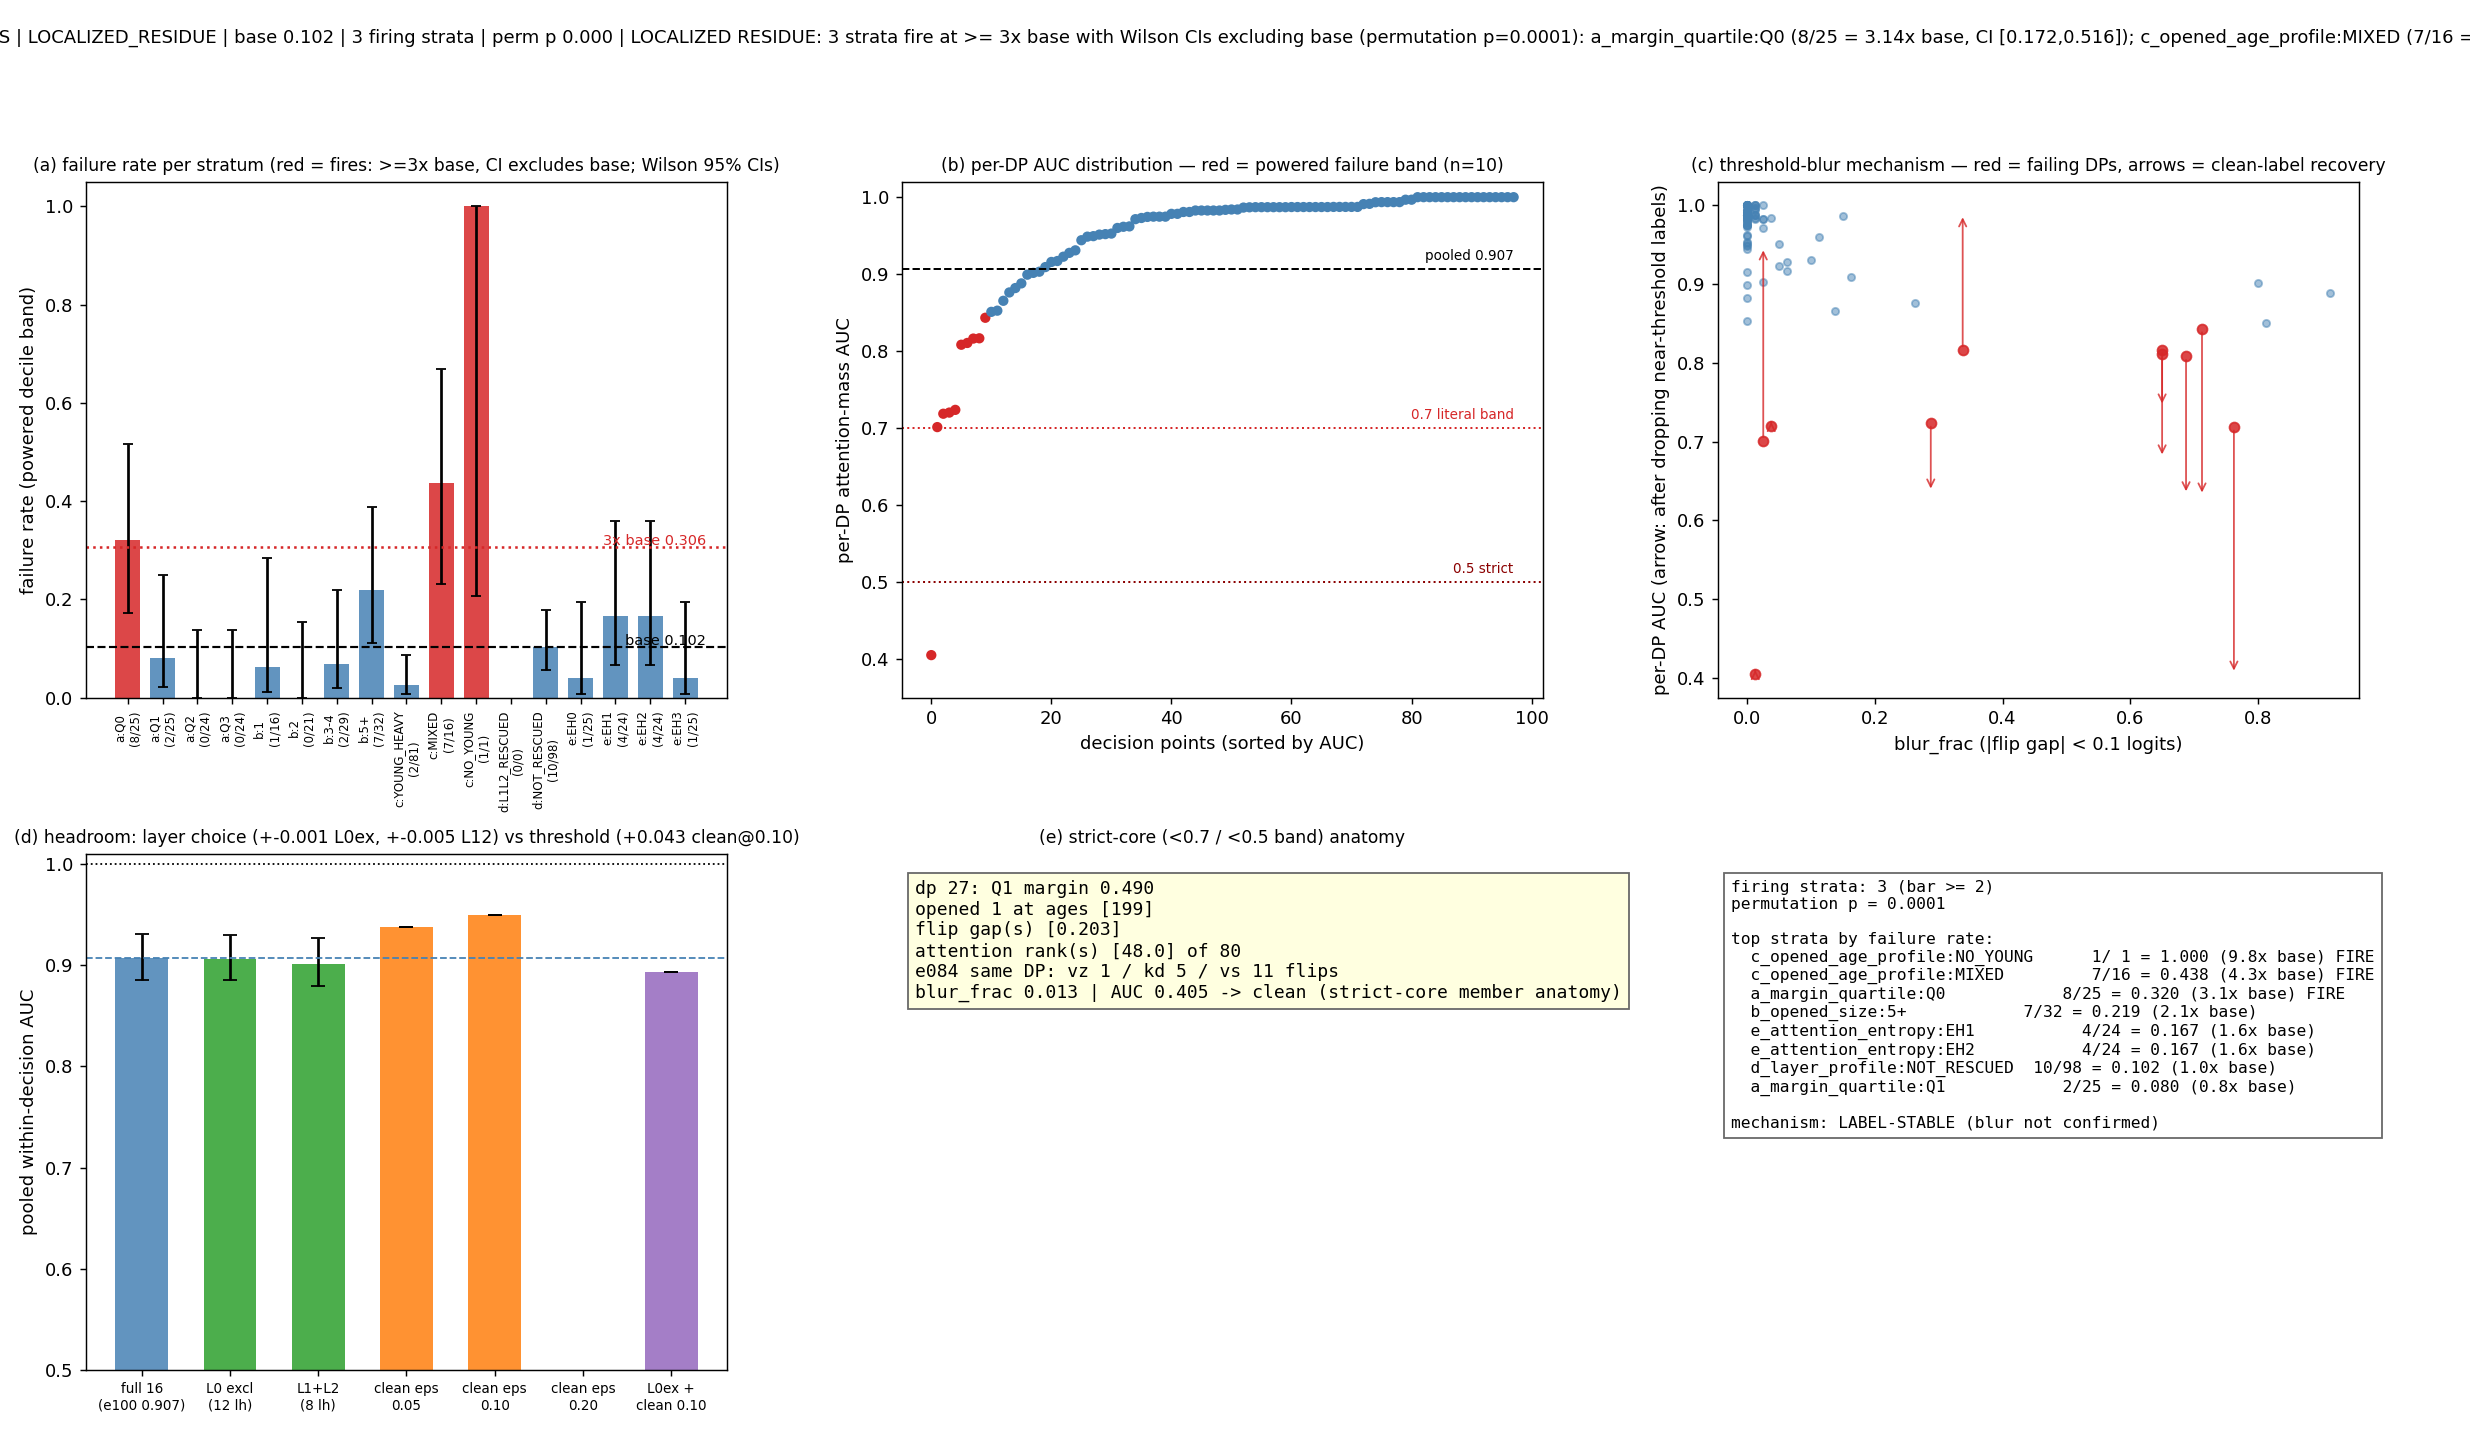
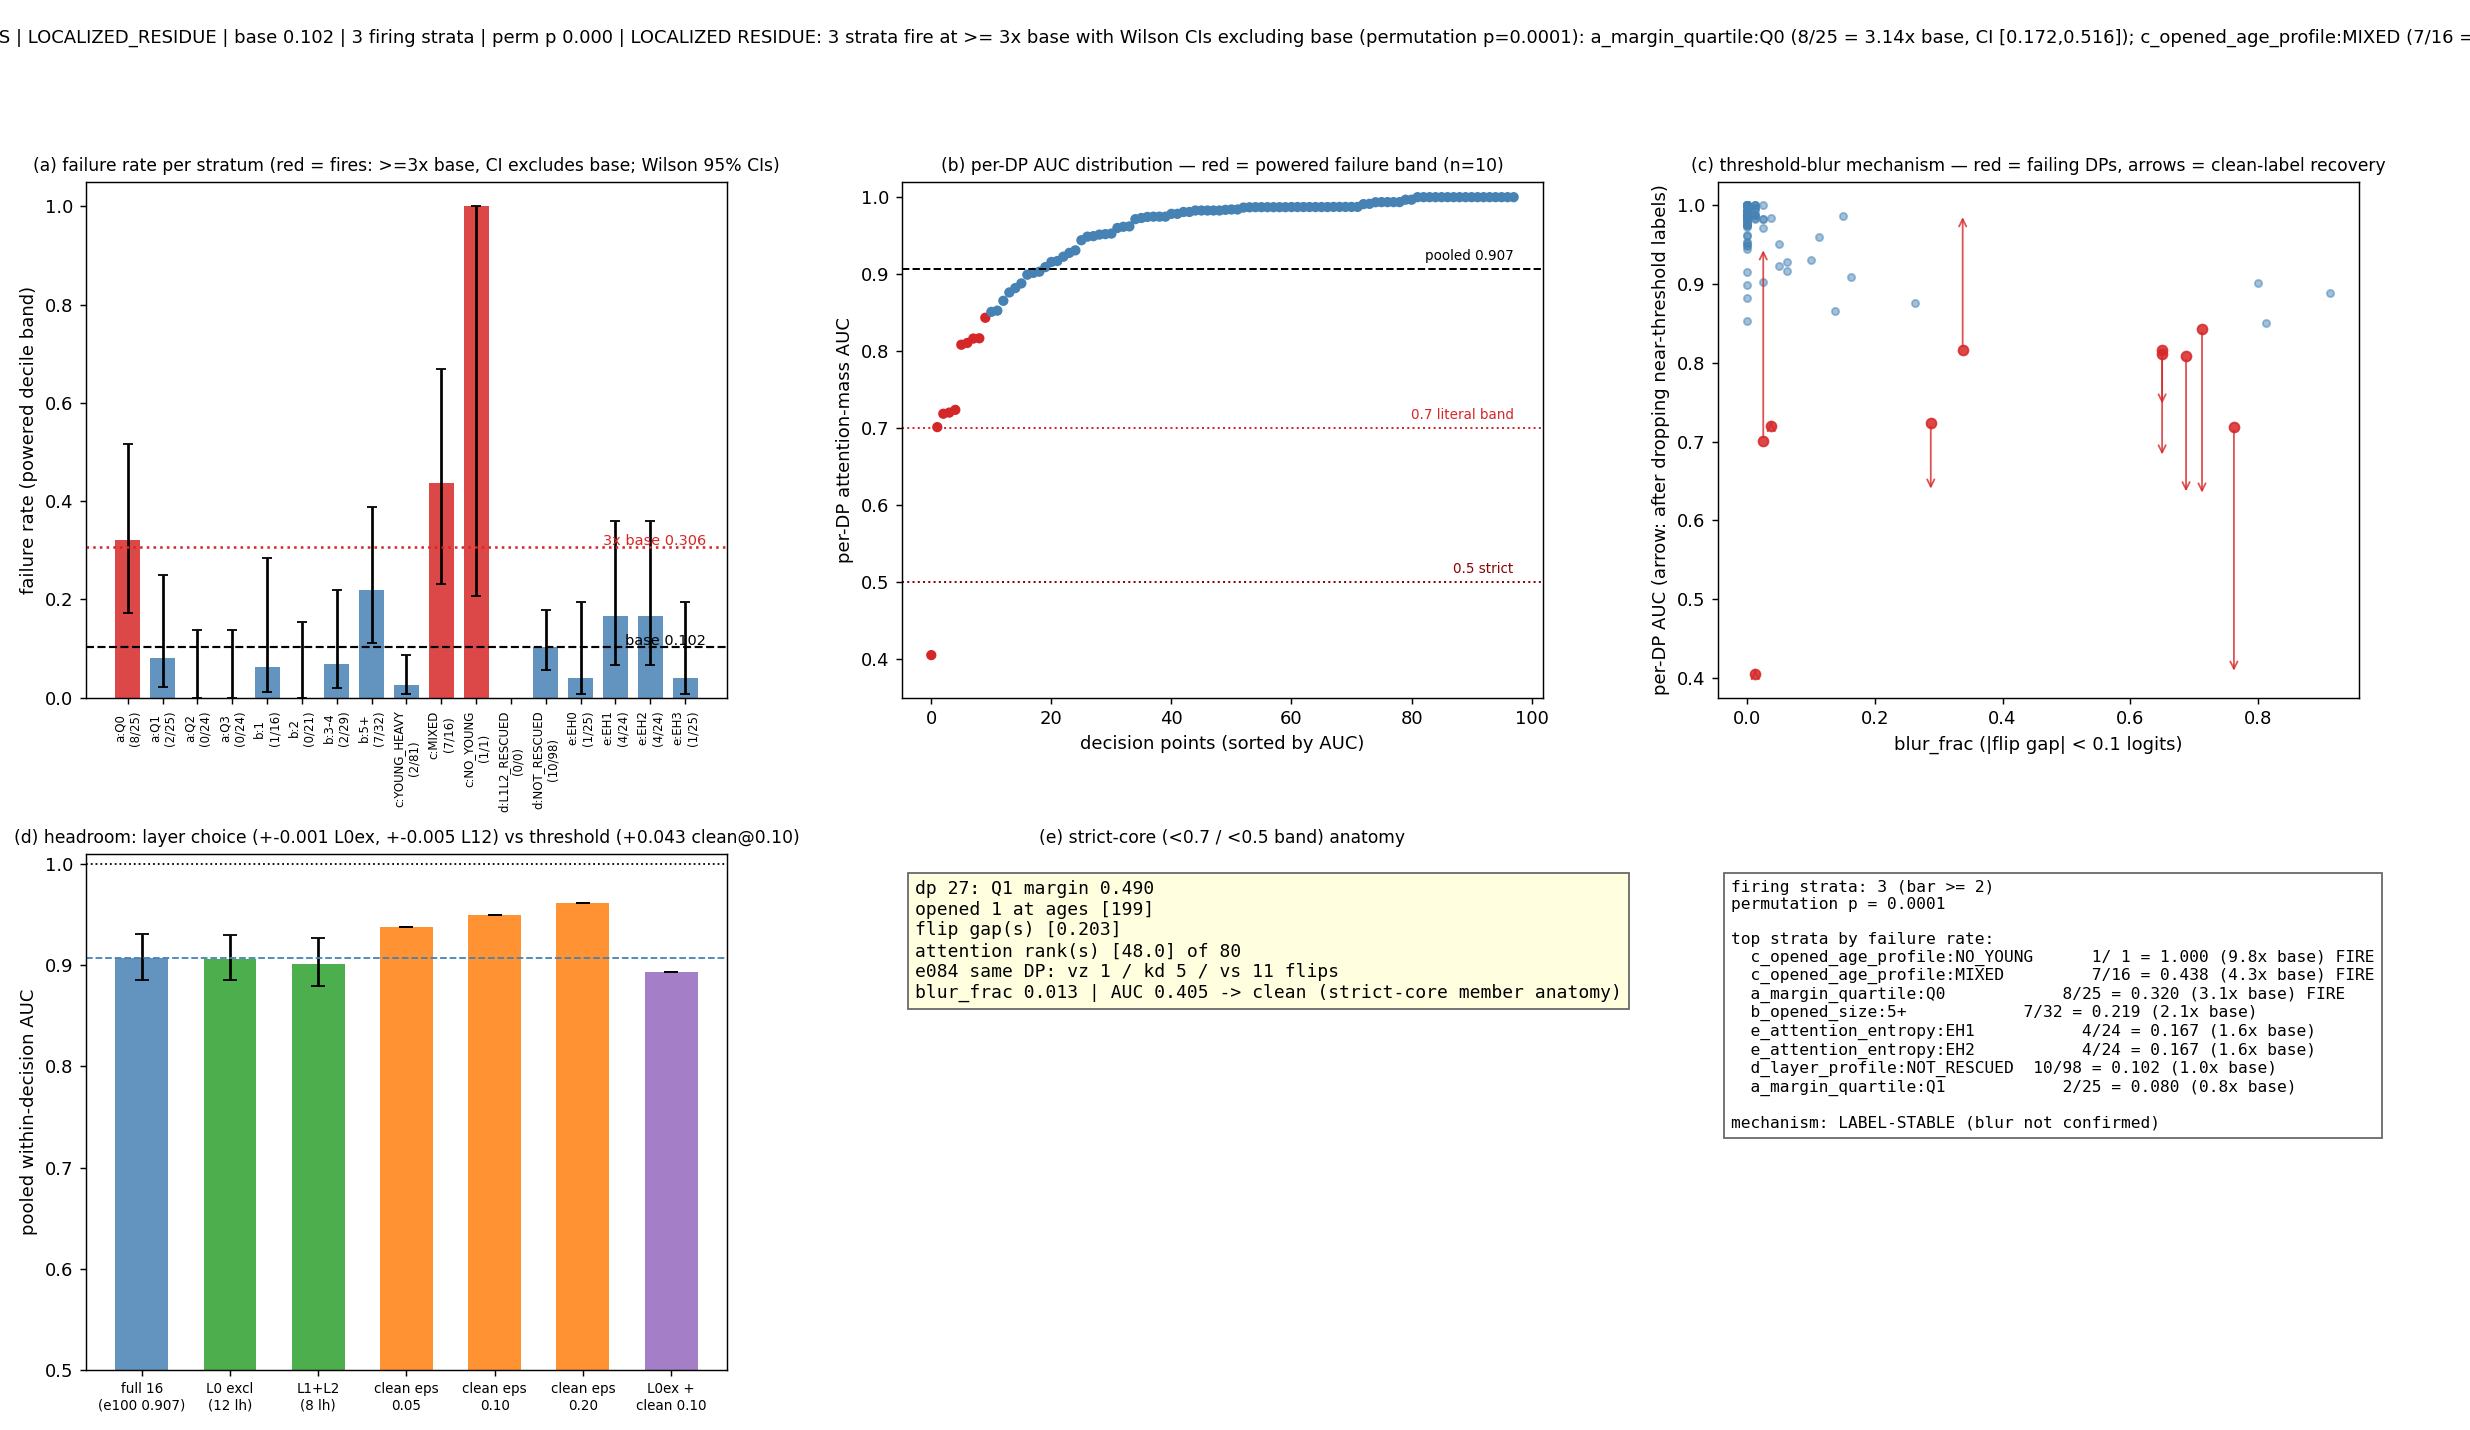
T058 calibrations: seed-inflated 7.27x (honest 2-7x range); greedy oracle cannot stack (+0.066); readership points OLD (-0.44)

Changed region(s): [[0.2182, 0.6154, 0.2494, 0.9538]]

diff --git a/lab/e104_failing_dp_census.py b/lab/e104_failing_dp_census.py
@@ -889,6 +889,24 @@ def main():
     blur_confirmed = bool(med_f >= BLUR_FRAC_RATIO * med_n
                           and n_recovered >= BLUR_RECOVER_COUNT)
 
+    # ---- descriptive mechanism detail (NOT a bar; the registered binary
+    #      rule above stands — this quantifies the blur/stable MIX honestly)
+    blur_detail = []
+    for r in valid_recs:
+        if r["dp"] in fail_dps:
+            blur_detail.append(dict(
+                dp=r["dp"], auc_full=r["auc_full"],
+                auc_clean=r[f"auc_clean@{EPS_PRIMARY_KEY}"],
+                blur_frac=r["blur_frac"][EPS_PRIMARY_KEY],
+                n_opened=r["n_opened"],
+                label_stable=bool(r["blur_frac"][EPS_PRIMARY_KEY] < 0.25)))
+    n_stable = sum(1 for d in blur_detail if d["label_stable"])
+    n_full_recover = sum(1 for d in blur_detail
+                         if np.isfinite(d["auc_clean"])
+                         and d["auc_clean"] - d["auc_full"] >= 0.1)
+    n_worsen = sum(1 for d in blur_detail if np.isfinite(d["auc_clean"])
+                   and d["auc_clean"] < d["auc_full"])
+
     # ---- strict-core anatomy (the literal <0.7 / <0.5 band members)
     anatomy = []
     for r in per_dp:
@@ -1032,13 +1050,22 @@ def main():
             strict_core_dps=sorted(strict_dps),
             strata=strata_tbl,
             n_firing_strata=obs_fire, permutation_p=perm_p,
+            permutation_p_ge2=perm_p_ge2,
+            permutation_null_hist=null_hist,
             firing_overlap=overlap,
             mechanism=dict(
                 blur_frac_failing_median=med_f,
                 blur_frac_nonfailing_median=med_n,
                 n_failing_recovered_above_085=n_recovered,
                 blur_confirmed=blur_confirmed,
-                label_stable=bool(not blur_confirmed)),
+                label_stable=bool(not blur_confirmed),
+                detail=dict(
+                    note="descriptive (registered rule above is the bar): "
+                         "label_stable = failing DP with blur_frac < 0.25",
+                    n_failing_label_stable=n_stable,
+                    n_failing_full_recovery_dauct_ge_0p1=n_full_recover,
+                    n_failing_worsen_after_clean=n_worsen,
+                    per_failing_dp=blur_detail)),
             strict_core_anatomy=anatomy),
         per_decision_point=per_dp,
         registered_decision=dict(

diff --git a/lab/e101_adversarial_subsets.py b/lab/e101_adversarial_subsets.py
@@ -1281,22 +1281,26 @@ def plot(path: Path, M: dict):
     # ---- panel 5: readership prior texture (what selection had to work with)
     rt = S["readership_texture"]
     for r in range(B):
-        ax5.scatter([r], [rt["min_top64"][r]], color="tab:orange", s=40)
+        ax5.scatter([r], [rt["min_top64"][r]], color="tab:orange", s=40,
+                    label="top-64 min(S)" if r == 0 else None)
         ax5.scatter([r], [rt["min_top128"][r]], color="tab:orange", s=80,
-                    marker="s", alpha=0.6)
-    ax5.axhline(P1_MAX, color="k", ls=":", lw=1.2,
-                label=f"exposure floor min <= {P1_MAX}")
-    ax5.axhline(ANCHOR_POS[0], color="gray", lw=0.6)
+                    marker="s", alpha=0.6,
+                    label="top-128 min(S)" if r == 0 else None)
+    ax5.axhline(ANCHOR_POS[0], color="gray", lw=0.6,
+                label=f"band floor {ANCHOR_POS[0]}")
     ax5.set_xlabel("run")
     ax5.set_ylabel("min(S) of the readership top-k")
     ax5.set_xticks(range(B))
     ov64 = np.mean(rt["overlap_with_recency_block"]["64"])
     ov128 = np.mean(rt["overlap_with_recency_block"]["128"])
     spr = np.nanmean(rt["spearman_mass_pos_per_run"]["64"])
-    ax5.set_title("E101-5 — the readership prior: top-k minima per run; "
-                  f"overlap with the recency block {ov64:.0f}/64, "
-                  f"{ov128:.0f}/128; Spearman(mass,pos) {spr:+.2f} "
-                  "(prior agreement texture)", fontsize=9)
+    ax5.set_ylim(56, 100)                  # data lives at 64..76; the 350
+    # exposure floor is >4x above every observed minimum — note, don't plot
+    ax5.set_title("E101-5 — the readership prior: top-k minima per run "
+                  "(ALL at the band floor 64..76, far below the 350 "
+                  f"exposure floor); overlap with the recency block "
+                  f"{ov64:.0f}/64, {ov128:.0f}/128; Spearman(mass,pos) "
+                  f"{spr:+.2f} (prior agreement texture)", fontsize=9)
     ax5.legend(fontsize=9)
 
     # ---- panel 6: the registered decision

diff --git a/THINKING.md b/THINKING.md
@@ -376,7 +376,7 @@ IS 2-7x.** The mass-action threshold survives every adversarial arm
 roughly double their count. **Refined law (third revision): mass
 dominates; recency is a strong multiplier (selection can buy ~2x
 effective mass); sink-side and top-readership selection buy
-NOTHING.** The sharpest literature falsification yet: top-readership
+NOTHING.** **Calibrations (agent-reported): the 7.27x is seed-inflated** (a low seed-101 random draw; kill-bar robust, same-k ratios not — treat recency-selection as ~2-7x with the honest range); **the greedy oracle cannot stack damage** (+0.066 at k=16 — e088's sub-additivity re-emerging under adversarial construction); **readership points OLD** (Spearman mass-vs-position −0.44, only 7/64 overlap with the recency block — the eviction heuristic selects the wrong END, not just the wrong entries). The sharpest literature falsification yet: top-readership
 (the importance-score heuristic behind H2O/eviction) is the WORST
 arm (0.40x) — the field's own selection tool fails at the task it
 was built for, in the regime where it claims to work.
